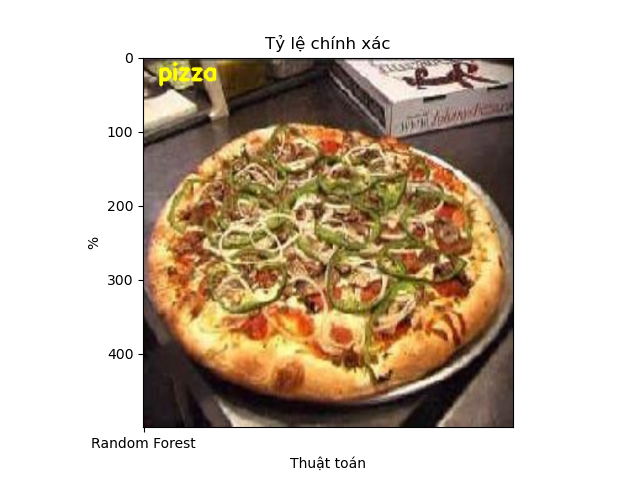
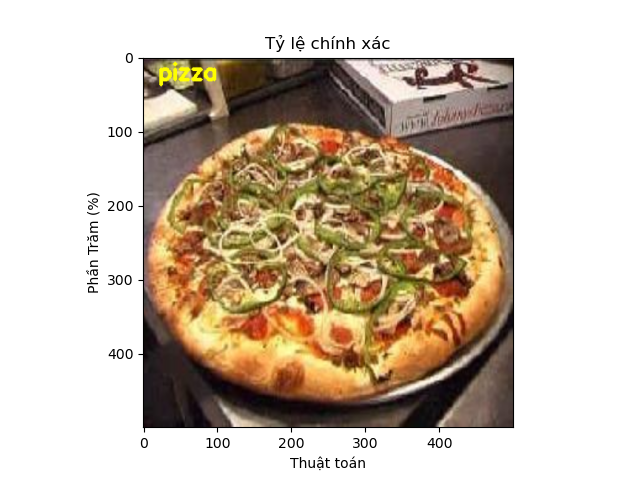
just missing script to show some detail

diff --git a/img/templates/result.html b/img/templates/result.html
@@ -28,16 +28,27 @@
 </head>
 
 <body>
+    <br>
     <div class="container-fluid">
         <div class="container">
-            <h2>Độ chính xác của thuật toán</h2>
             <div class="row">
                 <div class='col'>
-                    <img src="/static/model/{{img_name}}.png" class="img-fluid" alt="model" width="800" height="600">
+                    <div class="table table-bordered">
+                        <tr>
+                            <td>
+                                <img src="/static/results/{{label}}.png" class="img-fluid" alt="{{label}}" width="500"
+                                    height="500">
+                            </td>
+                            <td>
+                                <p id="name">Thuộc về class: <big><b>{{label}}</b></big></p>
+                                <p>Áp dụng thuật toán Random Forest Classifier</p>
+                            </td>
+                        </tr>
+                    </div>
                 </div>
                 <div class="col">
                     <table class="table table-hover">
-                        <thead>
+                        <thead class="thead-dark">
                             <th>THÔNG SỐ LIÊN QUAN:</th>
                         </thead>
                         <tbody>
@@ -75,21 +86,34 @@
             </div>
         </div>
 
-        <div class="table table-bordered">
-            <tr>
-                <td>
-                    <img src="/static/results/{{label}}.png" class="img-fluid" alt="{{label}}" width="500" height="500">
-                </td>
-                <td>
-                    <p id="name">Thuộc về class: {{label}}</p>
-                </td>
-            </tr>
-        </div>
+
     </div>
 
     <div class="container">
-        <a class="btn btn-success" role="button" href='/'>Back</a>
+        <a class="btn btn-success" role="button" href='/'>Back home</a>
     </div>
+
+    <div class="container">
+        <h2> Thông tin về dataset</h2>
+    </div>
+    <div class="container">
+        <table class="table table-striped table-bordered table-hover">
+            <thead class="thead-dark">
+                <tr>
+                    <th>Class</th>
+                    <th>Số lượng ảnh</th>
+                </tr>
+            </thead>
+            <tbody>
+                {% for key, value in dict.items() %}
+                <tr>
+                    <td>{{key}}</td>
+                    <td>{{value}} ảnh</td>
+                </tr>
+                {% endfor %}
+            </tbody>
+        </table>
+    </div class="container">
 </body>
 
 </html>

diff --git a/img/templates/home.html b/img/templates/home.html
@@ -28,14 +28,14 @@
 
 <body>
     <div class="container">
-
+        <br>
         <h2>Ảnh dùng để Test:</h2>
 
         <!-- <div class="alert alert-success">
             <strong>Success!</strong> You should <a href="#" class="alert-link">read this message</a>.
         </div> -->
         <form action="/result" method="POST" enctype="multipart/form-data">
-            <input type="file" multiple="" name="file[]" class="span3" /><br />
+            <input type="file" multiple="" name="file[]" class="span3" />
             <input type="submit" value="Upload" class="span2">
         </form>
     </div>
@@ -44,9 +44,12 @@
         <h2> Thông tin về dataset</h2>
     </div>
     <div class="container">
-        <table class="table table-dark table-striped table-bordered table-hover">
-            <thead>
-                <th colspan="2">TRAIN SET:</th>
+        <table class="table table-striped table-bordered table-hover">
+            <thead class="thead-dark">
+                <tr>
+                    <th>Class</th>
+                    <th>Số lượng ảnh</th>
+                </tr>
             </thead>
             <tbody>
                 {% for key, value in dict.items() %}

diff --git a/img/train_test.py b/img/train_test.py
@@ -1,18 +1,20 @@
 # -----------------------------------
 # TRAINING OUR MODEL
 # -----------------------------------
-import glob
-import matplotlib.pyplot as plt
-import numpy as np
-import os
-import cv2
-import warnings
-from sklearn.model_selection import train_test_split, cross_val_score
-from sklearn.model_selection import KFold
-from sklearn.ensemble import RandomForestClassifier
-from function import get_data_label, get_feature, get_train_label
-from const import *
 import time
+from const import *
+from function import get_data_label, get_feature, get_train_label
+from sklearn.ensemble import RandomForestClassifier
+from sklearn.model_selection import KFold
+from sklearn.model_selection import train_test_split, cross_val_score
+import warnings
+import cv2
+import os
+import numpy as np
+import glob
+import matplotlib
+import matplotlib.pyplot as plt
+matplotlib.use('Agg')
 warnings.filterwarnings('ignore')
 
 
@@ -48,11 +50,11 @@ def train_test():
     std = float(format((cv_results.std() * 100), ".2f"))
     mean = float(format((cv_results.mean() * 100), ".2f"))
 
-    plt.bar('Random Forest', mean, 1)
-    plt.title("Tỷ lệ chính xác")
-    plt.ylabel("%")
-    plt.xlabel("Thuật toán")
+    # plt.bar('Random Forest', mean, 1)
     img_name = str(int(time.time()))
+    plt.title("Tỷ lệ chính xác")
+    plt.ylabel("Phần Trăm (%)")
+    plt.xlabel("Thuật toán")
     plt.savefig(os.path.join(model_path, img_name))
 
 

diff --git a/img/main.py b/img/main.py
@@ -34,7 +34,7 @@ def result():
                 file.save(os.path.join(app.config['UPLOAD_FOLDER'], filename))
                 label, mean, std, img_name, global_features_shape, global_labels_shape, trainDataGlobal_shape, testDataGlobal_shape, trainLabelsGlobal_shape, testLabelsGlobal_shape = train_test()
                 os.remove(test_path + filename)
-        return render_template('result.html', label=label, acc=mean, std=std, img_name=img_name,
+        return render_template('result.html', dict=dict, label=label, acc=mean, std=std, img_name=img_name,
                                global_features_shape=global_features_shape, global_labels_shape=global_labels_shape,
                                trainDataGlobal_shape=trainDataGlobal_shape, testDataGlobal_shape=testDataGlobal_shape,
                                trainLabelsGlobal_shape=trainLabelsGlobal_shape, testLabelsGlobal_shape=testLabelsGlobal_shape)
@@ -42,4 +42,4 @@ def result():
 
 if __name__ == '__main__':
     dict = info(train_path)
-    app.run(host="127.0.0.1", port=int("80"), debug=True)
+    app.run(host="127.0.0.1", port=80, debug=True)
